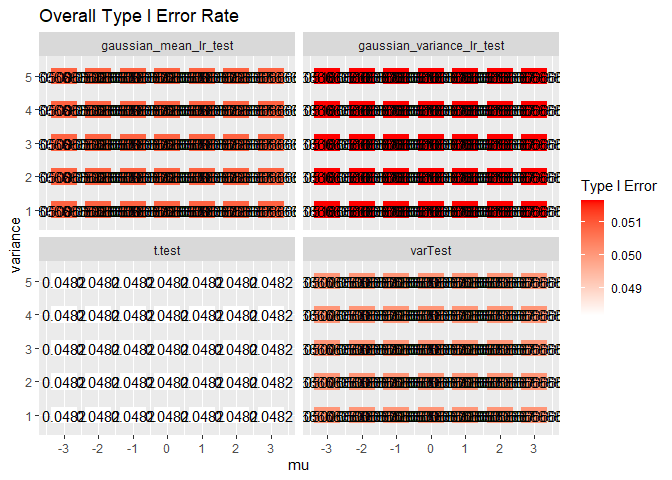
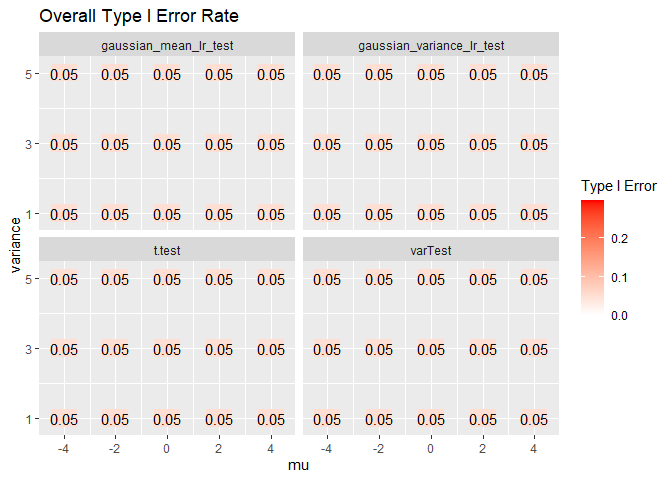
Polished narrative

diff --git a/README.md b/README.md
@@ -5,22 +5,22 @@
 
 For a range of parameter values and all three alternative hypothesis,
 type I error rates are estimated via simulation. The estimates are based
-on 5,000 iterations and a sample size of 50. Where possible, exact tests
-are included for comparison. At this sample size, most tests are just
-above the .05 error rate.
+on 5,000 iterations and a sample size of 200. Where possible, exact
+tests are included for comparison. At this sample size, most tests are
+just above the .05 error rate.
 
 <img src="man/figures/README-setUp-1.png" width="100%" /> Exploring each
 test one by one, most tests are consistent across the entire parameter
-space and alternative hypotheses. The negative binomial has an area of
-poor type I error rate. The geometric tests did poorly overall.
+space and alternative hypotheses. The negative binomial and geometric
+distributions are exceptions.
 
 # Successful Distributions
 
 For a distribution, the likelihood ratio test works well if
 
--   All tests achieve near .05 type I error rate over the entire
+-   The test has an average of.05 type I error rate over the entire
     parameter space.
--   All tests achieve near .05 type I error across all alternative
+-   All tests achieve near .05 type I error for all alternative
     hypothesis.
 
 To support both points, two graphs are shown. Where possible, exact
@@ -50,37 +50,49 @@ tests are included for comparison.
 
 For a distribution, the likelihood ratio test is considered bad if
 
--   Any test did not achieve near .05 type I error rate over any area
-    parameter space.
--   Any test did not achieve near .05 type I error across any
+-   The test does not achieve near .05 type I error rate over any area
+    of the parameter space.
+-   The test did not achieve near .05 type I error across all
     alternative hypothesis.
 
-It is possible for a test to “fail” and still be good approximation to
-the exact test.
+It is possible for a likelihood test to “fail” and still be good
+approximation to the exact test. If the exact test does not meet the
+conditions, the likelihood should not either.
 
 ## Negative Binomial
 
-For most parameter values, the negative binomial test performs well. For
-values near 0 or 1, the test does not perform well for small number of
-target successes. The exact test does well where the likelihood test
-fails.
+As long as the target number of success is large or p is not near one,
+the type I error rate is .05. When the target number of successes is
+small and p is near one, the likelihood test does not have a .05 type I
+error rate. How near is too near depends on the target number of
+successes. How small is to small depends on p. Visually this is the
+bottom right corner of the graph.
+
+The exact test has similar behavior in the bottom right but is always
+conservative. The likelihood test can be either liberal or conservative.
 
 <img src="man/figures/README-negativeBonimialTypeI-1.png" width="100%" />
 
-Both tests performed well in aggregate for all alternative hypothesis.
+In the aggregate, the likelihood test performs similarly to other
+likelihood tests across alternative hypotheses.
 
 <img src="man/figures/README-negativeBonimialTypeI2-1.png" width="100%" />
 
 ## Geometric
 
+In the above, type I error rates degraded as size decreased. The
+geometric distribution is the same as the negative binomial with size
+equal to 1. This suggests the geometric test will do poorly.
+
 Over the entire range of p, both the exact test and the likelihood ratio
-have type I error rate is near zero for some alternative hypothesis.
-Given the exact test did nearly as bad, the likelihood test succeeded in
-that is successfully approximated a bad exact test.
+have type I error rate far from the desired .05. The exact test is
+always conservative. Sometimes the likelihood test is liberal. Sometimes
+it is conservative. Overall, the likelihood test has different type I
+error rates than the exact test.
 
 <img src="man/figures/README-geometricTypeI-1.png" width="100%" />
 
-The test performed very poorly for the greater than alternative. Both
-tests are extremely conservative.
+In the aggregate, type I error rates are below the desired .05. This is
+due to the discrete nature of the test statistic.
 
 <img src="man/figures/README-geometricTypeI2-1.png" width="100%" />
